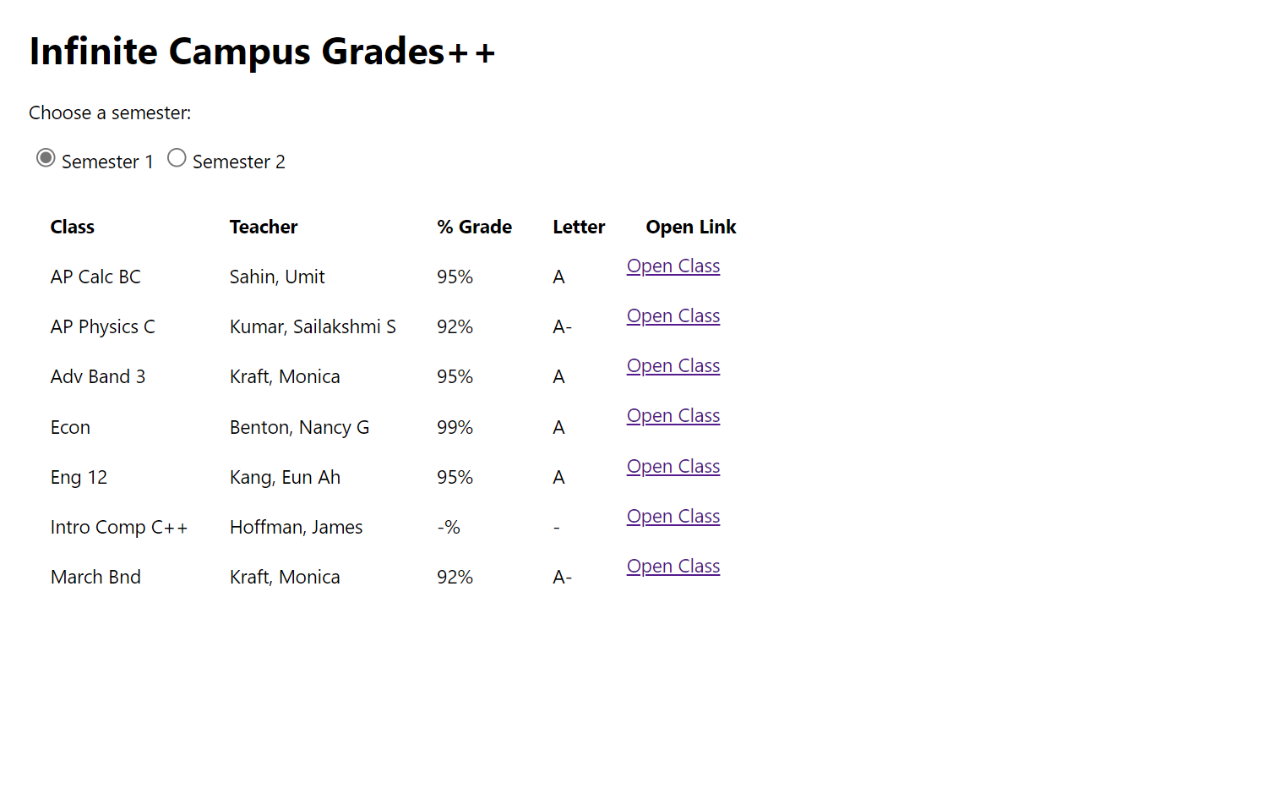
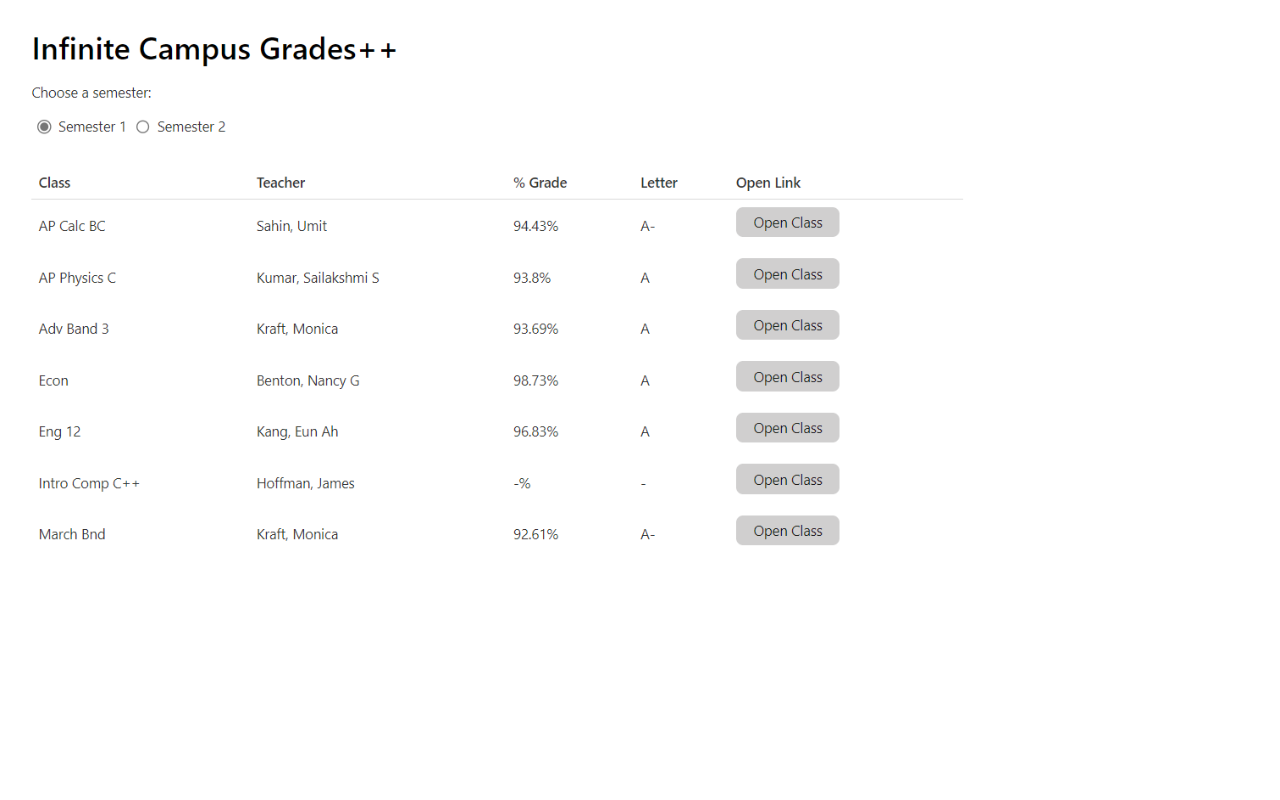
update readme + images for v2.1

diff --git a/README.md b/README.md
@@ -5,19 +5,19 @@ Tired of the confusing Infinite Campus grades UI and having to manually calculat
 
 Worry no longer! This handy extension aims to address 2 crucial oversights of Infinite Campus, a confusing UI and the inability to simulate your grade.
 
-With this extension, the assignments for each class are sorted neatly by grading category with your current and category grades at the top of the page. Additionally, you can see how assignments will affect your grade by changing your score for past assignments, adding new assignments, or deleting past assignments! You will also be able to view a graph showing how your grade has been changing throughout the semester.
+With this extension, the assignments for each class are sorted neatly by grading category with your current grade and category grades at the top of the page. Additionally, you can see how assignments will affect your grade by changing your score for past assignments, adding new assignments, or deleting past assignments! You will also be able to view a graph showing how your grade has been changing throughout the semester.
 
 Usage:
 1. Make sure you are signed into [FUSD Infinite Campus](https://fremontunifiedca.infinitecampus.org/campus/portal/students/fremont.jsp)
 2. After installing, click on the green Infinite Campus icon on the toolbar to open the home page
 3. Here, you can see a list of your current classes and grades
    - You can also change the semester you are viewing by clicking the radio buttons below the title
-4. If you click on the "Open Class" link next to each class entry, you will be brought to the class page
+4. If you click on the "Open Class" button next to each class entry, you will be brought to the class page
 5. Here, you can see all your assignments and grades for the class. You can:
+   - Add new assignments
    - Update assignment scores using the input boxes next to each assignment
    - Delete assignments using the "x" button
-   - Reset each assignment to its original score using the "⭯" button
-   - Add new assignments by pressing the add button at the bottom of each grading category
+   - Reset assignments to their original score using the "⭯" button
    - Your calculated grades will update in real time!
 6. Clicking on the "Grade History Graph" opens a graph showing how your grade has changed during the semester
 7. Enjoy!
@@ -26,6 +26,8 @@ Note: Calculated grades may be off by at most 0.01% due to rounding errors
 
 For any bugs or feature requests, do not hesitate to email appdev.micro@gmail.com or open an issue on GitHub with a detailed description of the issue/feature.
 
+### Images 
 ![](imgs/home_page.png)
 ![](imgs/class_page.png)
+![](imgs/class_expanded.png)
 ![](imgs/graph_page.png)
